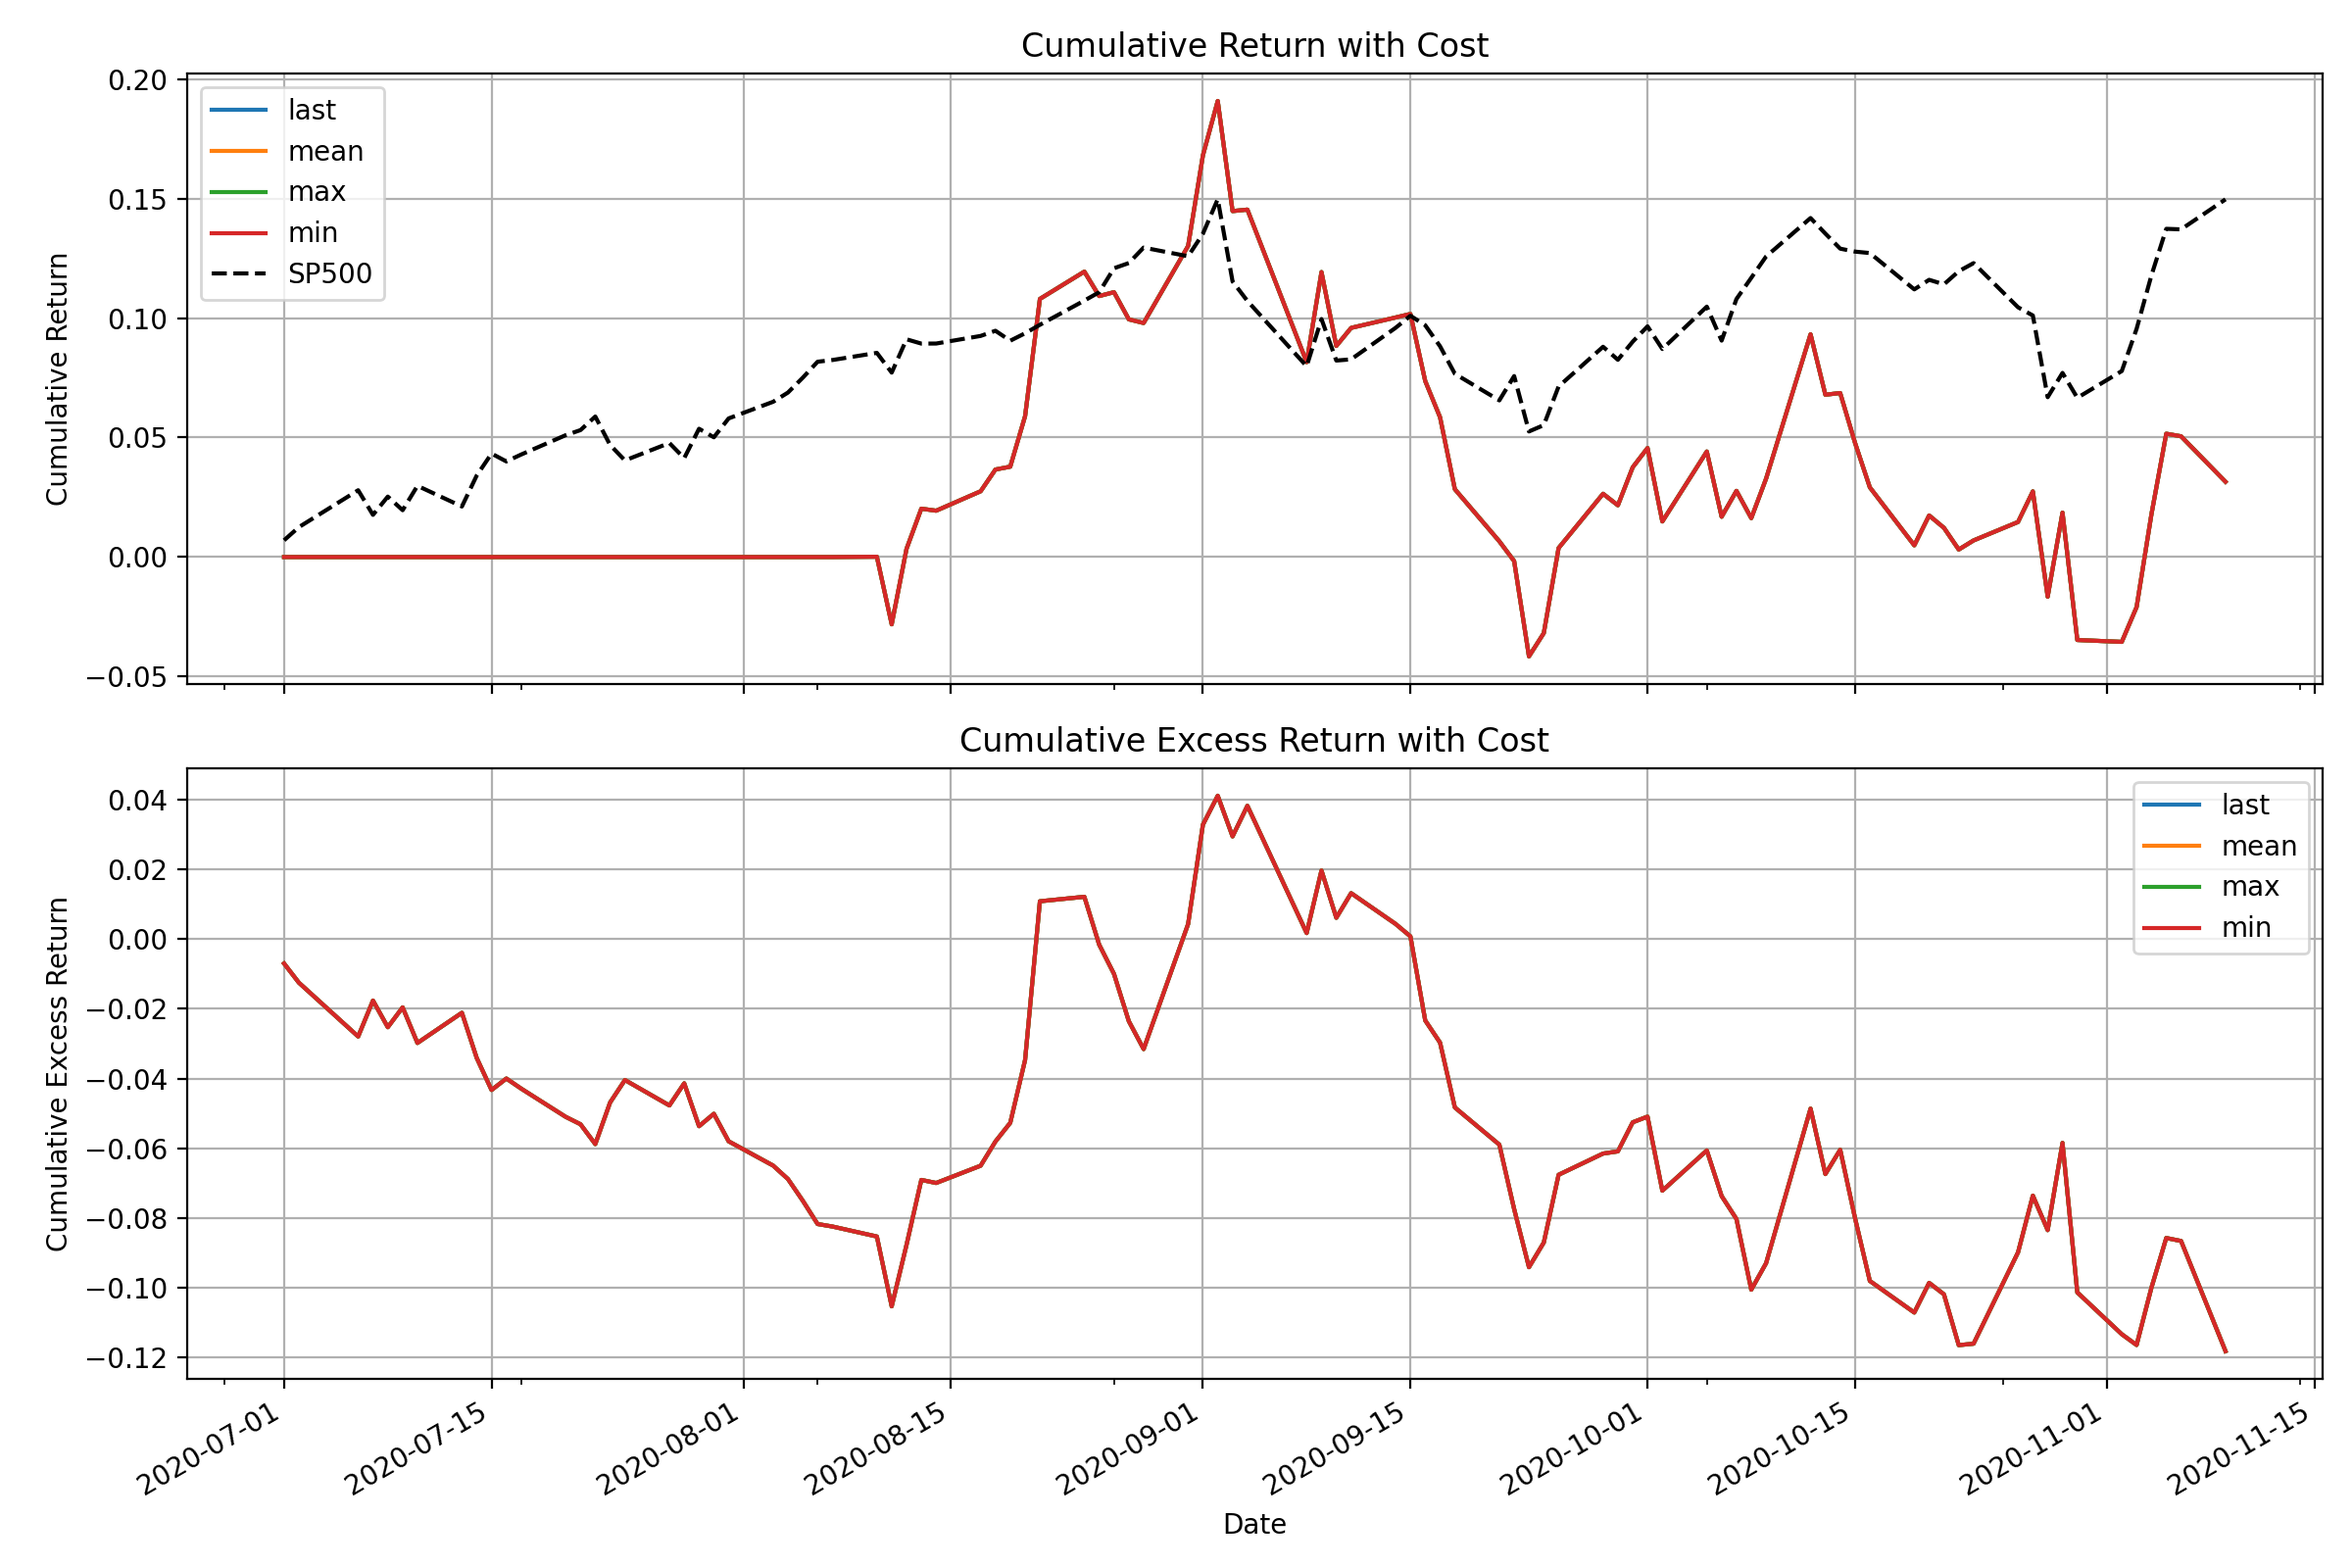
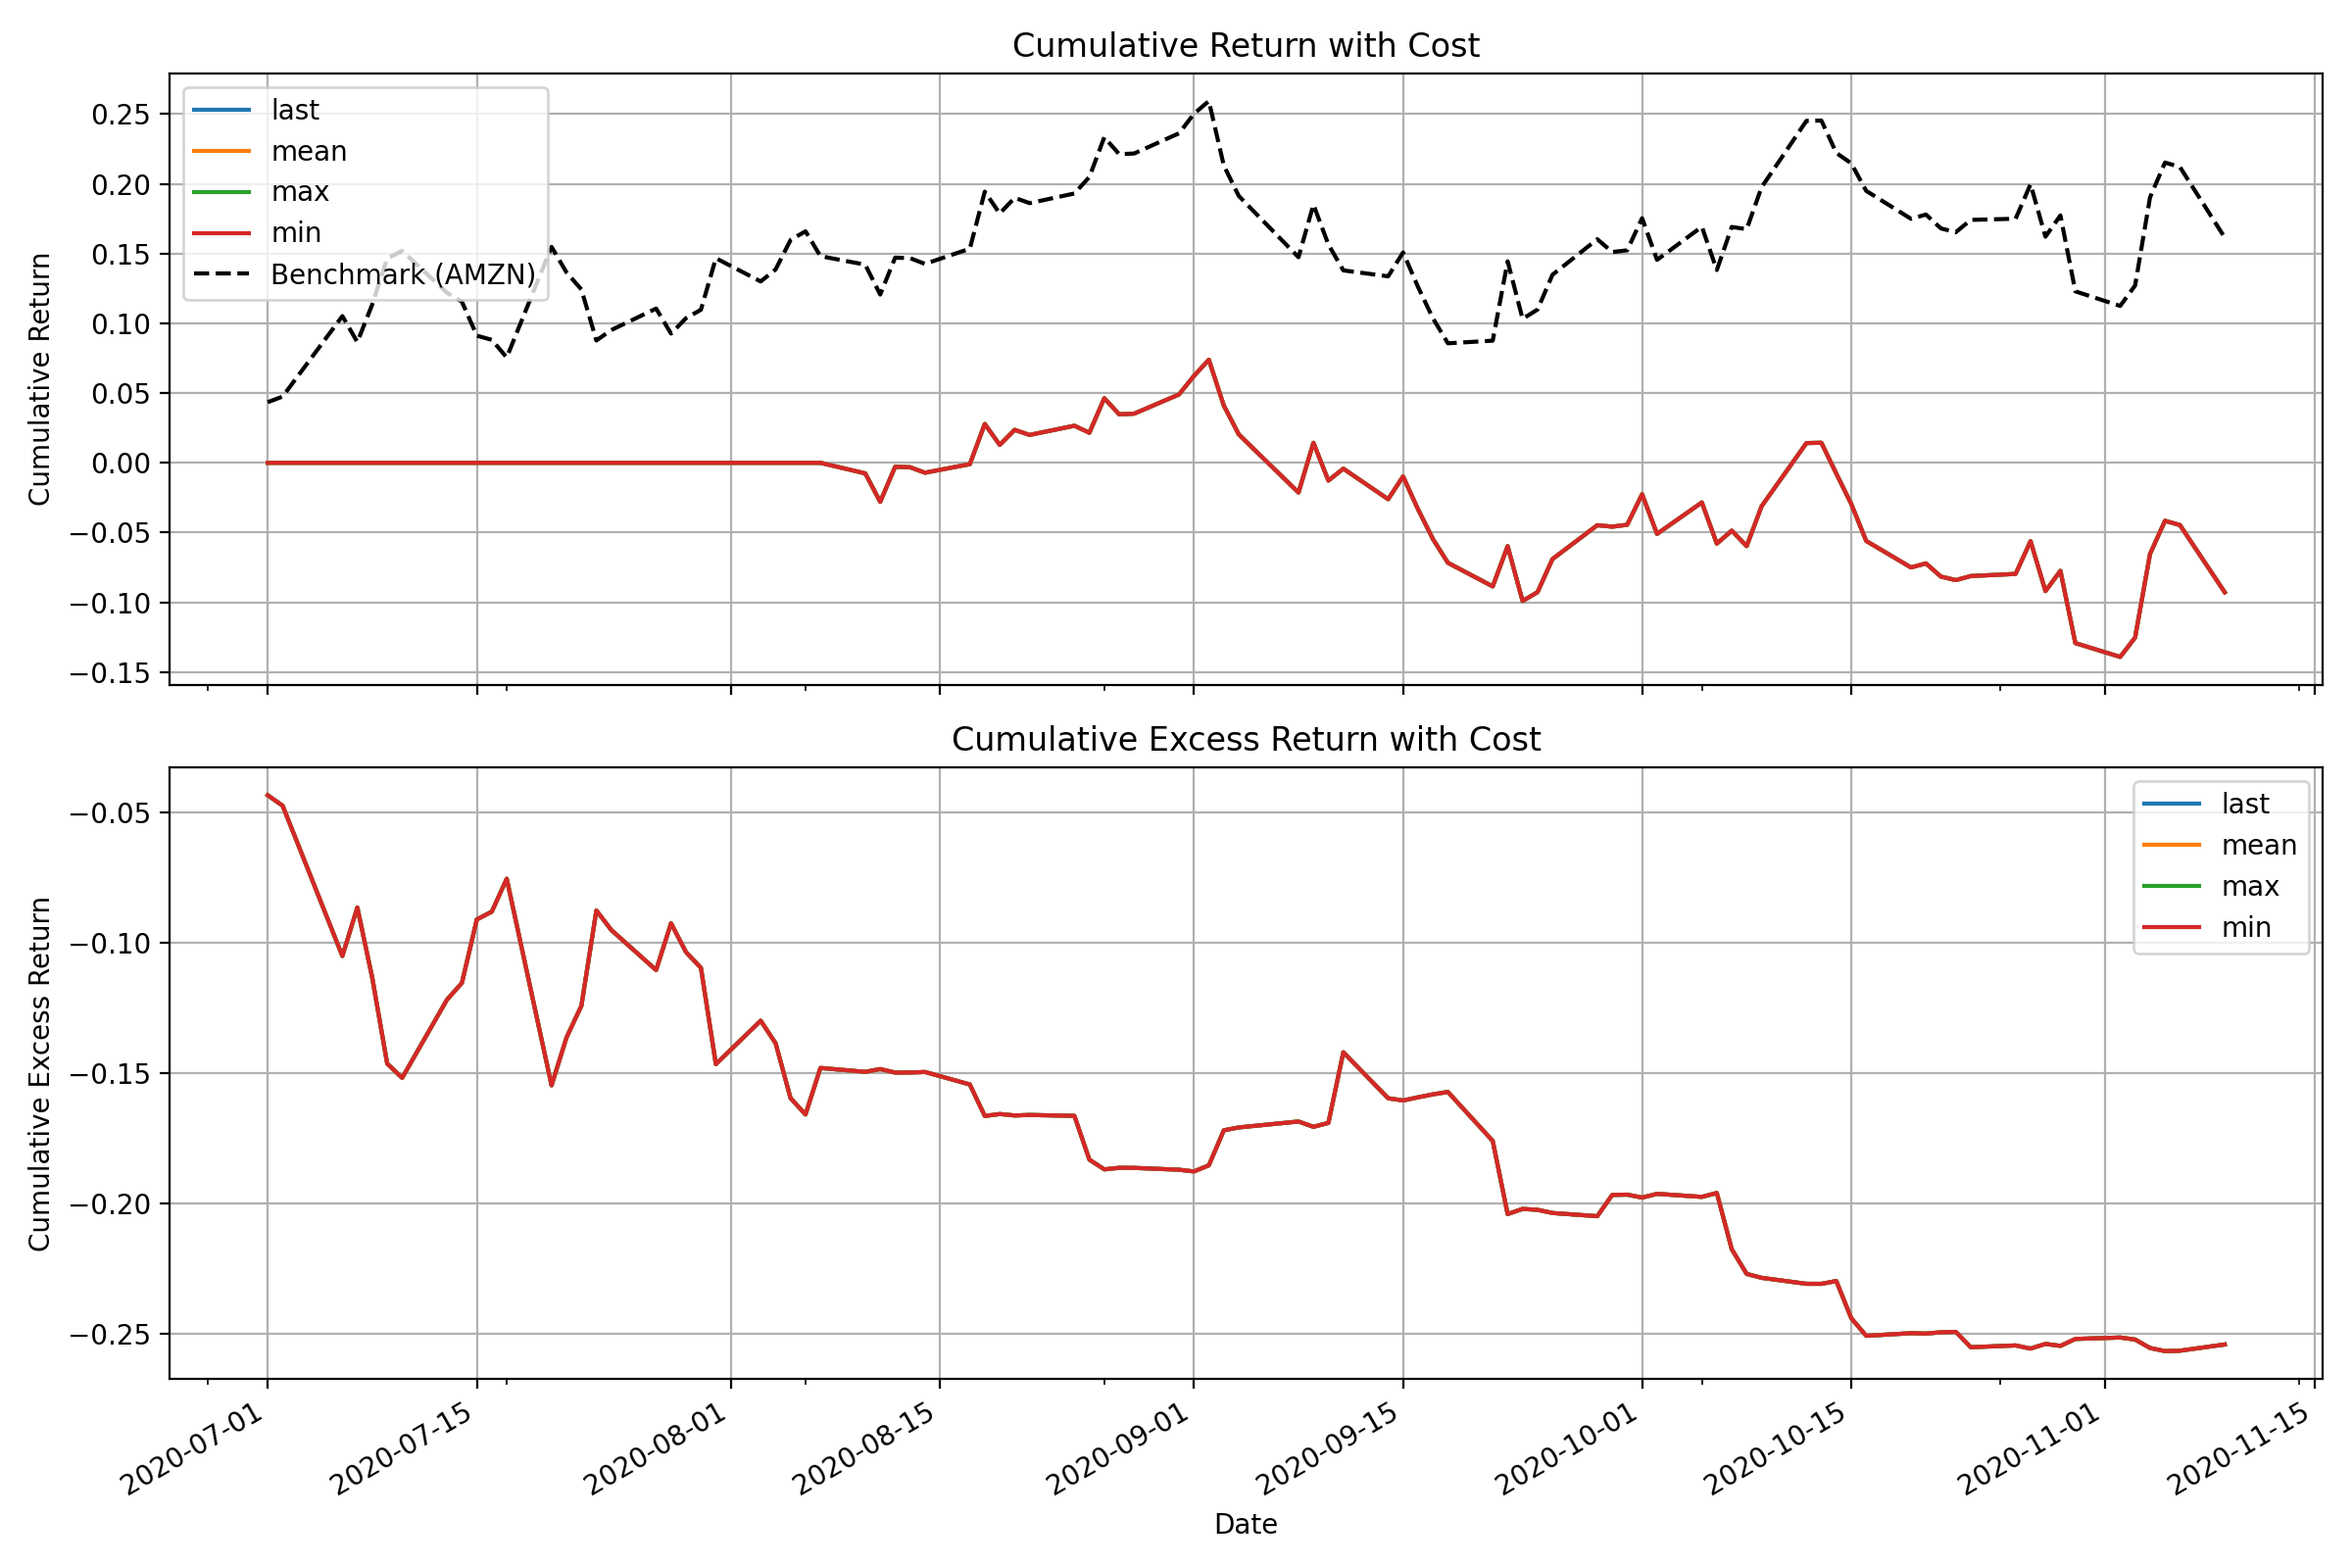
Bug fix to print traget symbol in backtest png

diff --git a/finetune/qlib_test.py b/finetune/qlib_test.py
@@ -118,13 +118,14 @@ class QlibBacktest:
         region = REG_US if self.config.market_region == 'us' else REG_CN
         qlib.init(provider_uri=self.config.qlib_data_path, region=region)
 
-    def run_single_backtest(self, signal_series: pd.Series) -> pd.DataFrame:
+    def run_single_backtest(self, signal_series: pd.Series, benchmark: str = None) -> pd.DataFrame:
         """
         Runs a single backtest for a given prediction signal.
 
         Args:
             signal_series (pd.Series): A pandas Series with a MultiIndex
                                        (instrument, datetime) and prediction scores.
+            benchmark (str, optional): Benchmark symbol to use. If None, uses config default.
         Returns:
             pd.DataFrame: A DataFrame containing the performance report.
         """
@@ -155,11 +156,14 @@ class QlibBacktest:
         else:
             end_time_str = self.config.backtest_time_range[1]
         
+        # Use provided benchmark or fall back to config default
+        benchmark_symbol = benchmark if benchmark is not None else self.config.backtest_benchmark
+        
         backtest_config = {
             "start_time": self.config.backtest_time_range[0],
             "end_time": end_time_str,
             "account": 100_000_000,
-            "benchmark": self.config.backtest_benchmark,
+            "benchmark": benchmark_symbol,
             "exchange_kwargs": {
                 "freq": "day", "limit_threshold": 0.095, "deal_price": "open",
                 "open_cost": 0.001, "close_cost": 0.0015, "min_cost": 5,
@@ -188,13 +192,14 @@ class QlibBacktest:
         })
         return report_df
 
-    def run_and_plot_results(self, signals: dict[str, pd.DataFrame]):
+    def run_and_plot_results(self, signals: dict[str, pd.DataFrame], benchmark: str = None):
         """
         Runs backtests for multiple signals and plots the cumulative return curves.
 
         Args:
             signals (dict[str, pd.DataFrame]): A dictionary where keys are signal names
                                                and values are prediction DataFrames.
+            benchmark (str, optional): Benchmark symbol to use. If None, uses config default.
         """
         return_df, ex_return_df, bench_df = pd.DataFrame(), pd.DataFrame(), pd.DataFrame()
 
@@ -203,17 +208,20 @@ class QlibBacktest:
             pred_series = pred_df.stack()
             pred_series.index.names = ['datetime', 'instrument']
             pred_series = pred_series.swaplevel().sort_index()
-            report_df = self.run_single_backtest(pred_series)
+            report_df = self.run_single_backtest(pred_series, benchmark=benchmark)
 
             return_df[signal_name] = report_df['cum_return_w_cost']
             ex_return_df[signal_name] = report_df['cum_ex_return_w_cost']
             if 'return' not in bench_df:
                 bench_df['return'] = report_df['cum_bench']
 
+        # Determine benchmark label for plot
+        benchmark_label = benchmark if benchmark is not None else self.config.backtest_benchmark
+
         # Plotting results
         fig, axes = plt.subplots(2, 1, figsize=(12, 8), sharex=True)
         return_df.plot(ax=axes[0], title='Cumulative Return with Cost', grid=True)
-        axes[0].plot(bench_df['return'], label=self.config.instrument.upper(), color='black', linestyle='--')
+        axes[0].plot(bench_df['return'], label=f'Benchmark ({benchmark_label})', color='black', linestyle='--')
         axes[0].legend()
         axes[0].set_ylabel("Cumulative Return")
 
@@ -350,6 +358,8 @@ def main():
     parser.add_argument("--device", type=str, default="cuda:1", help="Device for inference (e.g., 'cuda:0', 'cpu')")
     parser.add_argument("--symbols", type=str, nargs='+', default=['QQQ', 'DIA', 'SPY'],
                         help="Symbols to focus on (default: QQQ DIA SPY). Note: If ETFs not available, use stocks like: AAPL MSFT GOOGL")
+    parser.add_argument("--benchmark", type=str, default=None,
+                        help="Benchmark symbol to use for comparison (e.g., 'AAPL', 'SPY'). If not provided, uses the first symbol from --symbols if only one symbol is provided, otherwise uses config default.")
     args = parser.parse_args()
 
     # --- 1. Configuration Setup ---
@@ -405,6 +415,17 @@ def main():
     print(f"\nUsing {len(filtered_test_data)} symbol(s) for backtesting")
     test_data = filtered_test_data
     
+    # Determine benchmark: use --benchmark if provided, otherwise use first symbol if only one symbol, else use config default
+    if args.benchmark:
+        benchmark_symbol = args.benchmark
+        print(f"\nUsing specified benchmark: {benchmark_symbol}")
+    elif len(filtered_test_data) == 1:
+        benchmark_symbol = list(filtered_test_data.keys())[0]
+        print(f"\nUsing single symbol as benchmark: {benchmark_symbol}")
+    else:
+        benchmark_symbol = None  # Will use config default
+        print(f"\nUsing config default benchmark: {base_config.backtest_benchmark}")
+    
     # --- 3. Generate Predictions ---
     model_preds = generate_predictions(run_config, test_data)
 
@@ -421,7 +442,7 @@ def main():
         model_preds = pickle.load(f)
 
     backtester = QlibBacktest(base_config)
-    backtester.run_and_plot_results(model_preds)
+    backtester.run_and_plot_results(model_preds, benchmark=benchmark_symbol)
 
 
 if __name__ == '__main__':
